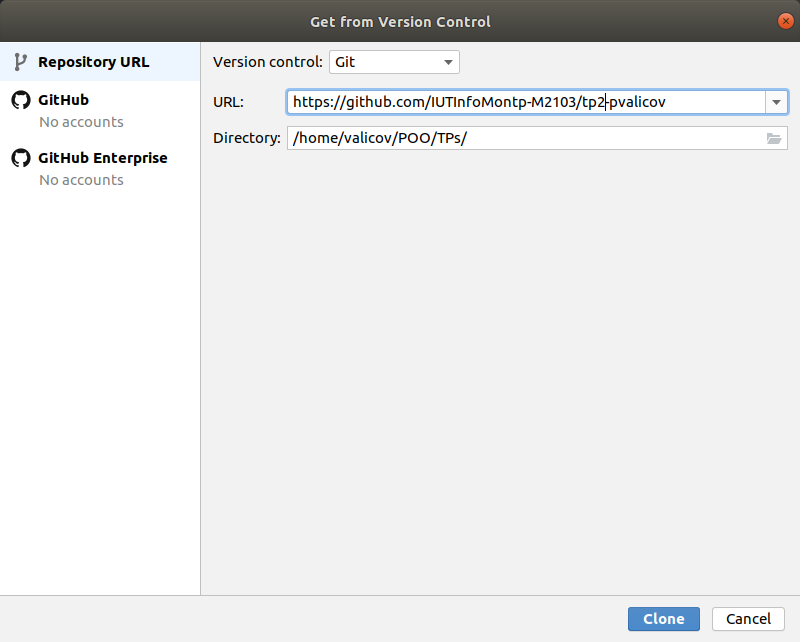
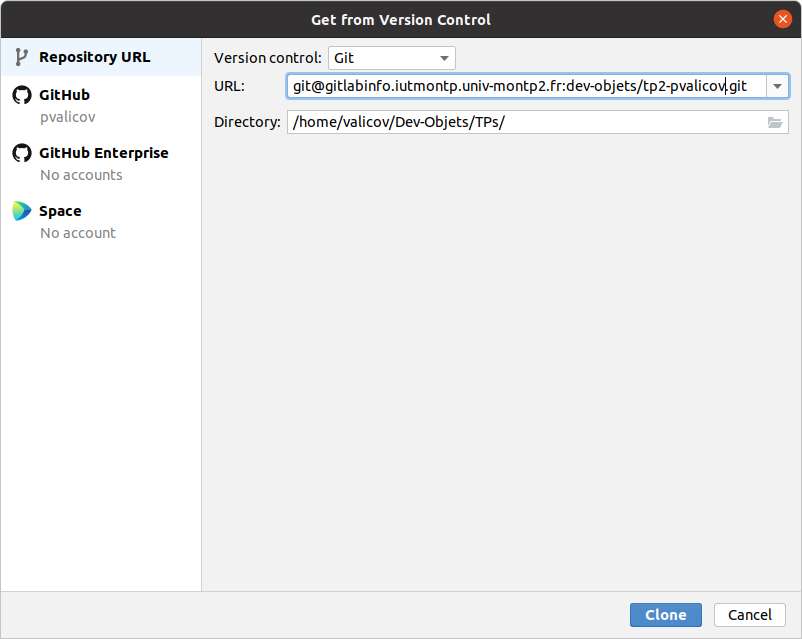
màj dépendences 2022

diff --git a/README.md b/README.md
@@ -1,13 +1,19 @@
 # ![](ressources/logo.jpeg)
 
-# Bases de la programmation orientée objet 
+# Développement Orienté Objets
 
 ### IUT Montpellier-Sète – Département Informatique
 
-* **Cours:** [M2103](http://cache.media.enseignementsup-recherche.gouv.fr/file/25/09/7/PPN_INFORMATIQUE_256097.pdf) - support [ici](https://github.com/IUTInfoMontp-M2103/Ressources)
-* **Enseignants:** [Marin Bougeret](mailto:marin.bougeret@umontpellier.fr), [Romain Lebreton](mailto:romain.lebreton@umontpellier.fr), [Sophie Nabitz](mailto:sophie.nabitz@univ-avignon.fr), [Victor Poupet](mailto:victor.poupet@umontpellier.fr), [Petru Valicov](mailto:petru.valicov@umontpellier.fr)
+* [**Support de cours**](https://gitlabinfo.iutmontp.univ-montp2.fr/dev-objets/Ressources)
+* **Enseignants:**
+  [Marin Bougeret](mailto:marin.bougeret@umontpellier.fr),
+  [Gaëlle Hisler](mailto:gaelle.hisler@umontpellier.fr),<!--[Sophie Nabitz](mailto:sophie.nabitz@univ-avignon.fr),-->
+  [Victor Poupet](mailto:victor.poupet@umontpellier.fr),
+  [Gilles Trombettoni](mailto:gilles.trombettoni@umontpellier.fr),
+  [Petru Valicov](mailto:petru.valicov@umontpellier.fr)
 * Le [forum Piazza](https://piazza.com/class/kjifrxy1n0i3xa) de ce cours pour poser vos questions
-* [Email](mailto:petru.valicov@umontpellier.fr) pour une question d'ordre privée concernant le cours.
+* [Email](mailto:petru.valicov@umontpellier.fr) pour toute question concernant le cours.
+
 
 <!--Avant de démarrer le TP, vérifiez que vous n'avez pas atteint votre quota d'espace de stockage autorisé :
 
@@ -22,20 +28,16 @@
 ## TP 2 : Prise en main de l'IDE et travail en mode TDD
 Pendant les TP nous vous conseillons d'utiliser un environnement de développement intégré (IDE en anglais).
 Les avantages sont multiples : le refactoring du code, l'auto-complétion, la suggestion des méthodes/attributs/classes,
-la documentation intégrée, le debuggage, une bonne intégration de Git et GitHub, des tests unitaires, etc.
+la documentation intégrée, le debuggage, une bonne intégration de Git, GitLab et GitHub, des tests unitaires, etc.
 Dans ce cours nous utiliserons l'IDE **[IntelliJ IDEA](https://www.jetbrains.com/idea/)** de chez **[JetBrains](https://www.jetbrains.com)**. Il devrait vous faciliter la vie au quotidien dans la réalisation de vos TP.
 Bien évidement, rien ne vous empêche d'en utiliser un autre ([Eclipse](https://www.eclipse.org/), [NetBeans](https://netbeans.org/) etc.).
 
-D'abord, et comme pour tous les TPs de POO qui vont suivre, vous allez "forker" ce dépôt pour pouvoir commencer à travailler localement :
-
-https://classroom.github.com/a/bfBd4j6U
-
-Contrairement au TP1, **ne clonez pas tout de suite** ce fork localement sur votre machine, l'IDE s'en chargera tout seul (voir ci-dessous).
+Votre fork de ce TP (_tp2-votre-login_) a été créé dans le groupe [Dev-Objets](https://gitlabinfo.iutmontp.univ-montp2.fr/dev-objets).
+Vous pouvez d'ores et déjà le cloner localement sur votre machine dans votre répertoire de travail. Vous pouvez également attendre et le faire à travers l'IDE (voir ci-dessous).
 
 ### Premiers pas avec l'IDE
 
-IntelliJ IDEA possède deux versions, la première dite *'communautaire'* est totalement open source et peut être utilisée gratuitement par n'importe qui et la seconde dite *'ultimate'* qui est plus riche en fonctionnalités et qui n'est pas gratuite. Pour les TPs qui vont suivre, vous aurez besoin de la version *'ultimate'* et par chance, comme dans le cas de GitHub, en tant qu'étudiant, vous avez la 
-possibilité de pouvoir bénéficier d'une licence pour tous les produits JetBrains.
+IntelliJ IDEA possède deux versions, la première dite *'Communautaire'* est totalement open source et peut être utilisée gratuitement par n'importe qui et la seconde dite *'Ultimate'* qui est plus riche en fonctionnalités et qui n'est pas gratuite. Pour les TPs qui vont suivre vous aurez besoin de la version '*Ultimate*' et en tant qu'étudiant, vous avez la possibilité de pouvoir bénéficier d'une licence pour tous les produits JetBrains.
 
 **Installation et premier lancement de l'IDE**
 * Si vous êtes au département, sur les postes Linux vous trouverez l'installation dans `/opt/idea-Ultimate/`. Pour le lancer :
@@ -45,16 +47,15 @@ possibilité de pouvoir bénéficier d'une licence pour tous les produits JetBra
     /opt/idea-Ultimate/bin$  ./idea.sh
     ```
 
-* Si vous êtes chez vous et sur Ubuntu le plus simple pour installer l'IDE c'est d'utiliser _Snap_, qui est un système de distribution de logiciels simplifié et qui est pré-installé sur toutes les versions récentes d'Ubuntu. À partir d'un terminal tapez :
+* Si vous utilisez votre propre machine :
+  * sur Ubuntu le plus simple pour installer l'IDE c'est d'utiliser _Snap_, qui est un système de distribution de logiciels simplifié et qui est pré-installé sur toutes les versions récentes d'Ubuntu. À partir d'un terminal tapez :
 
-    ```
-    sudo snap install intellij-idea-ultimate --classic
-    ```
-* Pour installer l'IDE sur Windows, ou Mac OS, ou Linux depuis un exécutable, il suffit de le télécharger ici : https://www.jetbrains.com/help/idea/installation-guide.html#standalone
+      ```
+      sudo snap install intellij-idea-ultimate --classic
+      ```
+  * sur Windows, Mac OS, ou Linux on peut faire l'installation depuis un exécutable -- il suffit de le télécharger ici : https://www.jetbrains.com/help/idea/installation-guide.html#standalone
 
-Le téléchargement et l'installation risquent de prendre un peu de temps, donc en attendant vous pouvez demander la licence et vous familiariser avec les consignes qui suivent.
-
-<!-- Commencez par télécharger la version *'ultimate'* de [IntelliJ IDEA](https://www.jetbrains.com/fr-fr/idea/).
+<!-- Le téléchargement et l'installation risquent de prendre un peu de temps, donc en attendant vous pouvez demander la licence et vous familiariser avec les consignes qui suivent. Les étapes qui vont suivre s'appliquent quelque soit votre système d'exploitation.
 
 Pour installer l'IDE sur Linux, vous devez extraire l'archive dans un endroit qui va bien (dans votre `$HOME` par exemple) et lancer l'exécutable se trouvant dans le répertoire `idea-IU-***.tar.gz/bin/`. Depuis un terminal :
 
@@ -71,16 +72,12 @@ cd ~/idea-IU-***/bin/
 
 
 
-Les étapes qui vont suivre s'appliquent quelque soit votre système d'exploitation.
 
 **Obtention de la licence académique Ultimate**
 
-Pour bénéficier de la licence académique, il vous suffit de remplir [ce formulaire](https://www.jetbrains.com/shop/eform/students).
+Pour bénéficier de la licence académique, il vous suffit de remplir [ce formulaire](https://www.jetbrains.com/shop/eform/students) en utilisant votre adresse universitaire.
 
-Quelques minutes après, vous recevrez un email de confirmation suivi d'un second email d'activation où vous devrez accepter 
-les conditions d'utilisation et choisir un nom d'utilisateur et un mot de passe. Conservez précieusement ces 
-informations dans un coin identifié de votre cerveau car c'est grâce à elles que vous pourrez importer votre licence 
-sur toutes les machines que vous allez utiliser (chez vous, à l'IUT etc).
+Quelques minutes après, vous recevrez un email de confirmation suivi d'un second email d'activation où vous devrez accepter les conditions d'utilisation et choisir un nom d'utilisateur et un mot de passe. Conservez précieusement ces informations, car c'est grâce à elles que vous pourrez importer votre licence sur toutes les machines que vous allez utiliser (chez vous, à l'IUT etc).
 
 **Premier lancement de l'IDE**
 
@@ -103,25 +100,15 @@ Vous êtes presque prêt à commencer à coder !
 **Import du projet dans l'IDE**
 
 Maintenant, depuis l'onglet _Projects_ vous devez choisir comment vous souhaitez démarrer le travail.
-Pour le TP d'aujourd'hui il faudra cloner votre dépôt depuis GitHub (_tp2-VotreLogin_).
+Pour le TP d'aujourd'hui il faudra cloner votre dépôt depuis [GitLab](https://gitlabinfo.iutmontp.univ-montp2.fr/dev-objets/) (_tp2-VotreLogin_).
 Normalement l'installation Git de votre machine a déjà été détecté par votre IDE, donc vous choisirez l'option *Get from VCS*, ou _VCS_ signifie _Version Control_.
-L'URL sera celui correspondant à votre fork du TP2 sur GitHub :
+L'URL sera celui correspondant à votre fork du TP2 sur GitLab :
 
 ![](ressources/ImportProjet.png)
 
-Rappelez-vous que votre fork du TP2 est privé, donc une authentification est nécessaire :
+Rappelez-vous que votre fork du TP2 est privé, donc une authentification est nécessaire. Si vous avez bien fait les étapes du [tutoriel Git](https://gitlabinfo.iutmontp.univ-montp2.fr/valicov/tutoGit1ereAnnee) du [TP1](https://gitlabinfo.iutmontp.univ-montp2.fr/dev-objets/TP1), alors passer dans l'URL le lien de clone à travers SSH serait le plus simple car vous n'aurez pas besoin de vous authentifier manuellement.
 
-![](ressources/Login_GitHub_Idea.png)
-
-Le plus simple est de générer un _token_ d'authentification avec HTTPS, qui vous permettra de cloner avec l'IDE tous
-vos projets GitHub à partir de leur URL et sans avoir à vous authentifier à chaque. Pour cela cliquez sur _Use token_ et dans la fenêtre ci-dessous cliquez sur _Generate_ :
-
-![](ressources/Generation_token_github.png)
-
-Vous allez être redirigé vers la page GitHub correspondante ou vous générerez le token avec le bouton _Generate token_ tout en bas de la page
-(vous pouvez laisser les options cochées proposées telles qu'elles).
-Copiez le code obtenu et insérez-le dans la fenêtre ci-dessus. Cliquez sur _Log In_ et normalement tout est bon.
-Vous venez de cloner avec l'IDE votre premier dépôt GitHub tout en établissant un canal de communication sécurisé **permanent** entre l'IDE et GitHub.
+Vous venez de cloner avec l'IDE votre premier dépôt Git depuis un serveur distant (le GitLab de l'IUT).
 
 Lorsque vous ouvrez votre projet Java, la fenêtre d'affichage de votre IDE devrait rassembler à quelque chose comme ceci :
 
@@ -137,23 +124,23 @@ vous demande d'indiquer le SDK à utiliser (grosso modo c'est l'ensemble d'outil
 
 ![](ressources/SDK_non_detected.png)
 
-Si vous avez ce problème, cliquez sur _SetUp SDK_ et choisissez celui par défaut ou une autre version supérieure à 11.
+Si vous avez ce problème, cliquez sur _SetUp SDK_ et choisissez celui par défaut ou une autre version supérieure à 17.
 
 
 ### Workflow
 
-Maintenant que vous savez utiliser Git en ligne de commande, que vous avez forké, importé et ouvert le TP dans votre IDE, 
-vous êtes en capacité de travailler sur vos exercices. Pour cette séance nous vous proposons de suivre un workflow particulier pour résoudre vos exercices progressivement et en consolidant 
-progressivement un filet de sécurité qui vérifiera que votre code continue à bien faire ce qu'il doit. Il s'agit d'un premier aperçu de ce qu'on appelle le Développement Piloté par les Tests ([Test-Driven Development](https://fr.wikipedia.org/wiki/Test_driven_development) ou TDD pour faire court). 
+Maintenant que vous savez utiliser Git en ligne de commande, que vous avez forké, importé et ouvert le TP dans votre IDE,
+vous êtes en capacité de travailler sur vos exercices. Pour cette séance nous vous proposons de suivre un workflow particulier pour résoudre vos exercices progressivement et en consolidant
+progressivement un filet de sécurité qui vérifiera que votre code continue à bien faire ce qu'il doit. Il s'agit d'un premier aperçu de ce qu'on appelle le Développement Piloté par les Tests ([Test-Driven Development](https://fr.wikipedia.org/wiki/Test_driven_development) ou TDD pour faire court).
 
 Le TDD est une méthode de développement de logiciels qui consiste
-à travailler sur des cycles de développement très courts. La conception apparaît au fur et à mesure du développement en commençant à écrire les tests avant le code applicatif. Ceci favorise une meilleure compréhension du problème. Pour le développeur, les tests vont constituer une spécification technique exécutable et vérifiable à tout 
-moment. Ainsi en ajoutant des tests au fur et à mesure, le développeur converge progressivement à la fois vers une spécification plus fine 
+à travailler sur des cycles de développement très courts. La conception apparaît au fur et à mesure du développement en commençant à écrire les tests avant le code applicatif. Ceci favorise une meilleure compréhension du problème. Pour le développeur, les tests vont constituer une spécification technique exécutable et vérifiable à tout
+moment. Ainsi en ajoutant des tests au fur et à mesure, le développeur converge progressivement à la fois vers une spécification plus fine
 et un code fonctionnel associé.
 
 Ci-dessous le déroulement d’un cycle :
 1. Écrire un premier test automatique qui est censé définir une nouvelle fonctionnalité. Le test
-doit s’écrire **avant la fonctionnalité voulue**, il est donc censé échouer initialement (normal, car vous n'avez encore rien programmé).
+   doit s’écrire **avant la fonctionnalité voulue**, il est donc censé échouer initialement (normal, car vous n'avez encore rien programmé).
 2. Écrire le code __minimal__ suffisant pour passer le test (principe _BabySteps_).
 3. Vérifier que le test passe.
 4. __Refactoriser__ (simplifier, améliorer, optimiser, etc.) tout le code tout en gardant la fonctionnalité. Durant cette étape les tests écrits préalablement sont exécutés en permanence pour certifier la validité des changements.
@@ -190,8 +177,8 @@ class MaPetiteClasseDeTests {
 Pour exécuter les tests, la façon la plus simple est d'utiliser votre IDE : ouvrir la classe contenant le test et
 utiliser le bouton 'Play' pour exécuter les tests contenus dans cette classe.
 Le résultat de l’exécution s'affiche en bas de la fenêtre de l'IDE :
- * les tests ayant **réussi** sont affichés en **vert**
- * les tests ayant **échoué** sont en **rouge**
+* les tests ayant **réussi** sont affichés en **vert**
+* les tests ayant **échoué** sont en **rouge**
 
 Votre IDE vous affiche également la cause de l'échec en vous indiquant le résultat attendu de la fonctionnalité testée
 et le résultat effectif.
@@ -199,7 +186,7 @@ et le résultat effectif.
 #### Organisation du projet Java - convention Maven
 Dans tous les projets informatiques sérieux, les tests sont systématiquement séparés du code testé.
 Pour le faire, nous allons utiliser la convention [Maven](https://fr.wikipedia.org/wiki/Apache_Maven)
-dans l'ensemble des TPs de POO.
+dans l'ensemble des TPs de Dev-Objets.
 Ainsi le code sera organisé de la façon suivante :
 
 ![](ressources/ArborescenceMaven.png)
@@ -217,7 +204,7 @@ Maven est un système de _build_ et administration de projets Java. Pour faire u
 à l'outil bien connu [make](https://fr.wikipedia.org/wiki/Make) avec lequel vous serez bercés tout au long de vos études.
 Utiliser Maven permet de gérer facilement toutes les dépendances du projet (comme les librairies de tests unitaires par exemple).
 Il est également utile pour créer le fichier `.jar` du projet : une archive contenant l'ensemble de classes Java et de ressources
- d'un projet informatique (comme `.AppImage` sous Linux ou `.exe` sous Windows).
+d'un projet informatique (comme `.AppImage` sous Linux ou `.exe` sous Windows).
 
 Comme indiqué précédemment, dans ce TP les tests unitaires vous seront donnés dans le repertoire de test correspondant.
 Vous allez les activer un par un en commentant l'annotation `@Disabled`.
@@ -236,12 +223,12 @@ Une série 'FizzBuzz' de taille `n` est une suite d'entiers positifs où, lorsqu
 Le programme correspondant devrait bien évidemment être très facile, mais on vous demande de l'implémenter **en suivant les consignes ci-dessous**.
 
 * La classe à implémenter est `FizzBuzz`, située dans le paquetage `fr.umontpellier.iut.exercice1`.
-Elle contient deux fonctions qu'il faudra compléter :
+  Elle contient deux fonctions qu'il faudra compléter :
   - `getValue(int i)` qui retournera une chaîne de caractères correspondant au nombre `i`dans la série FizzBuzz
-  - `computeList(int n)` qui retournera toute la série 'FizzBuzz' jusqu'à la valeur passée en paramètre 
+  - `computeList(int n)` qui retournera toute la série 'FizzBuzz' jusqu'à la valeur passée en paramètre
 
 * La classe contenant les tests est située dans le répertoire correspondant au paquetage `fr.umontpellier.iut.exercice1` dans l'arborescence `src/test` de votre projet.
-  - Vous activerez les tests les uns après les autres, et pour chaque tests vous passerez les trois étapes d'une itération : FAIL, PASS, REFACTOR. 
+  - Vous activerez les tests les uns après les autres, et pour chaque tests vous passerez les trois étapes d'une itération : FAIL, PASS, REFACTOR.
   - Vous soumettrez (avec un `git commit`) votre solution après __chaque itération__ du cycle principal du workflow.
 
 Même si l'exercice paraît facile, prêtez une attention particulière à l'étape de refactorisation.
@@ -284,10 +271,10 @@ On va se fixer une représentation unique des nombres romains avec les principes
 - Un même symbole n'est pas employé quatre fois de suite (sauf `M`).
 - Les soustractions s'effectuent sur un seul symbole (par exemple `XL` est correct et vaut 40, mais il est interdit d'écrire `XXL` pour 30, et on écrira plutôt `XXX`).
 - On écrira en respectant l'ordre suivant
-   - d'abord les chiffres des milliers (à l'aide uniquement de `M`)
-   - puis les chiffres des centaines (à l'aide uniquement de `C`,`D`,`M`)
-   - puis les chiffres des dizaines (à l'aide uniquement de `X`,`L`,`C`)
-   - puis les chiffres des unités (à l'aide uniquement de `I`,`V`,`X`)
+  - d'abord les chiffres des milliers (à l'aide uniquement de `M`)
+  - puis les chiffres des centaines (à l'aide uniquement de `C`,`D`,`M`)
+  - puis les chiffres des dizaines (à l'aide uniquement de `X`,`L`,`C`)
+  - puis les chiffres des unités (à l'aide uniquement de `I`,`V`,`X`)
 - Pour chacune des 4 étapes ci-dessus, on utilisera le moins de symboles possible.
 
 Par exemple :
@@ -303,11 +290,11 @@ Dans cet exercice, vous allez manipuler la classe [`String`](https://docs.oracle
 
 **Convertisseur de nombres romains**
 
-Écrivez la classe Java `RomanToNumeral` donnée. Cette classe aura une méthode  `getNumeral()` qui prend un nombre romain en paramètre et retourne sa valeur en numérotation décimale (un type `int`). 
+Écrivez la classe Java `RomanToNumeral` donnée. Cette classe aura une méthode  `getNumeral()` qui prend un nombre romain en paramètre et retourne sa valeur en numérotation décimale (un type `int`).
 
 N'oubliez pas de faire des "commits" au fur et à mesure !
 
-**Convertisseur de nombres décimaux** 
+**Convertisseur de nombres décimaux**
 
 Écrivez la classe `NumeralToRoman` qui contiendra une méthode `getRoman()`, qui prend un nombre entier en paramètre et retourne sa valeur en numérotation romaine (de type `String` donc).
 
@@ -317,8 +304,8 @@ Est-ce que vos tests sont suffisants ? Que se passe-t-il lors de la conversion `
 
 En utilisant les deux classes écrites précédemment, créez une classe `RomanAdditionner` qui contiendra une méthode `String compute()`. Cette méthode prendra en paramètre une chaîne de caractères représentant une expression arithmétique romaine telle que :
 
- - les opérandes sont écrits en numérotation romaine
- - les opérations possibles sont `+` et `-`
+- les opérandes sont écrits en numérotation romaine
+- les opérations possibles sont `+` et `-`
 
 Le retour de cette fonction devra correspondre au résultat du calcul de l'expression arithmétique écrit sous forme d'un nombre romain.
 Par exemple pour l'expression arithmétique `MMMXL` + `XII` - `CIX` passée en paramètre, la valeur retournée devrait être : `MMCMXLIII`.
@@ -337,57 +324,62 @@ Dans tous les cas gardez cette citation d'Edsger W. Dijkstra en tête :
 
 ### Si l'IDE n'est pas votre tasse de thé...
 
-Naturellement vous pouvez faire le tout en ligne de commandes.
-Supposons que vous êtes sur Linux (la démarche étant quasiment identique sur Windows ou MacOS) et que la racine de votre projet est le répertoire `~/POO/TP2`.
+Évidemment vous pouvez faire tout en ligne de commandes.
+Supposons que vous êtes sur Linux (la démarche étant quasiment identique sur Windows ou MacOS) et que la racine de votre projet est le répertoire `~/Dev-Objets/TP2`.
 Positionnez-vous dans ce répertoire :
 ```
-~/RepertoireCourant$ cd ~/POO/TP2
-~/POO/TP2$ ls
-~/POO/TP2$ pom.xml  README.md  src  target  tp2.iml
+~/RepertoireCourant$ cd ~/Dev-Objets/TP2
+~/Dev-Objets/TP2$ ls
+~/Dev-Objets/TP2$ pom.xml  README.md  src  target  tp2.iml
 ```
 
 Pour compiler le code source de l'exercice 1 à partir de la racine de votre projet :
 
 ```
-~/POO/TP2$  javac -d target/ src/main/java/fr/umontpellier/iut/exercice1/*.java
+~/Dev-Objets/TP2$  javac -d target/ src/main/java/fr/umontpellier/iut/exercice1/*.java
 ```
 
 L'option `-d target` permet d'indiquer que la destination des fichiers compilés est le répertoire `target/`
 Également, avec l'option `-sourcepath`, il est possible d'indiquer le chemin où le compilateur va chercher
 l'ensemble du code source à compiler :
 ```
-~/POO/TP2$  javac -sourcepath src/ -d target src/main/java/fr/umontpellier/iut/exercice1/*.java
+~/Dev-Objets/TP2$  javac -sourcepath src/ -d target src/main/java/fr/umontpellier/iut/exercice1/*.java
 ```
 
 Pour exécuter le programme compilé :
 ```
-~/POO/TP2$  cd target/
-~/POO/TP2/target$  java fr.umontpellier.iut.exercice1.App
+~/Dev-Objets/TP2$  cd target/
+~/Dev-Objets/TP2/target$  java fr.umontpellier.iut.exercice1.App
 ```
-L'avantage d'utiliser IntelliJ IDEA est qu'à priori vous n'avez pas à installer les diverses dépendances, l'outil est _"self-contained"_.
+L'avantage d'utiliser un IDE est qu'à priori vous n'avez pas à installer les diverses dépendances, car le logiciel se débrouille tout seul.
 En revanche, si vous passez par la console, il se peut que vous soyez amenés à installer ou importer divers outils.
-Notamment, pour exécuter les tests unitaires dans un terminal, il faudrait utiliser un exécutable `.jar` correspondant
-à la plateforme JUnit et contenant l'ensemble de dépendances nécessaires :
+Notamment, pour exécuter les tests unitaires dans un terminal, il faudrait utiliser un exécutable `.jar` correspondant à la plateforme JUnit que vous souhaitez. Cet exécutable contient l'ensemble de dépendances nécessaires et sa dernière version est disponible [ici](https://mvnrepository.com/artifact/org.junit.platform/junit-platform-console-standalone/1.8.2). Une fois le `.jar` téléchargé, vous pouvez l'utiliser pour compiler et exécuter vos classes de tests :
 ```
-~/POO/TP2$  java -jar junit-platform-console-standalone-<version>.jar <Options>
+~/Dev-Objets/TP2$  javac -d target -cp target:junit-platform-console-standalone-1.8.2.jar src/test/java/fr/umontpellier/iut/exercice1/*.java
+
+~/Dev-Objets/TP2$  java -jar junit-platform-console-standalone-1.8.2.jar --class-path target --select-class fr.umontpellier.iut.exercice1.FizzBuzzTest
+
 ```
+Voici le résultat que vous devrez obtenir (dans cet exemple tous les tests passent) :
+
+![](ressources/sortie_console_junit_CLI.png)
 
 La solution ci-dessus peut s'avérer particulièrement pénible lorsque vous avez plusieurs classes de tests,
 dans différents packages. Le plus simple, c'est d'utiliser un outil de "build" comme Maven,
-[Gradle](https://fr.wikipedia.org/wiki/Gradle), [Ant](https://fr.wikipedia.org/wiki/Apache_Ant), [make](https://fr.wikipedia.org/wiki/Make) etc. 
+[Gradle](https://fr.wikipedia.org/wiki/Gradle), [Ant](https://fr.wikipedia.org/wiki/Apache_Ant), [make](https://fr.wikipedia.org/wiki/Make) etc.
 Par exemple, si Maven est installé sur votre machine vous pouvez exécuter les tests en ligne de commande assez facilement.
-Pour cela placez-vous à la racine de votre projet et tapez la commande suivante :
+Pour cela, placez-vous à la racine de votre projet et tapez la commande suivante :
 
 ```
-~/POO/TP2$  mvn test
+~/Dev-Objets/TP2$  mvn test
 ```
 Le résultat obtenu devrait rassembler à quelque chose comme ceci :
 
 ![](ressources/mvn_test_exemple.png)
 
 L'exécution de la classe principale avec Maven depuis la ligne de commande est également plus simple que la méthode "rudimentaire" avec `javac` + `java`
- :
+:
 
 ```
-~/POO/TP2$ mvn exec:java -Dexec.mainClass="fr.umontpellier.iut.exercice1.App"
+~/Dev-Objets/TP2$ mvn exec:java -Dexec.mainClass="fr.umontpellier.iut.exercice1.App"
 ```
